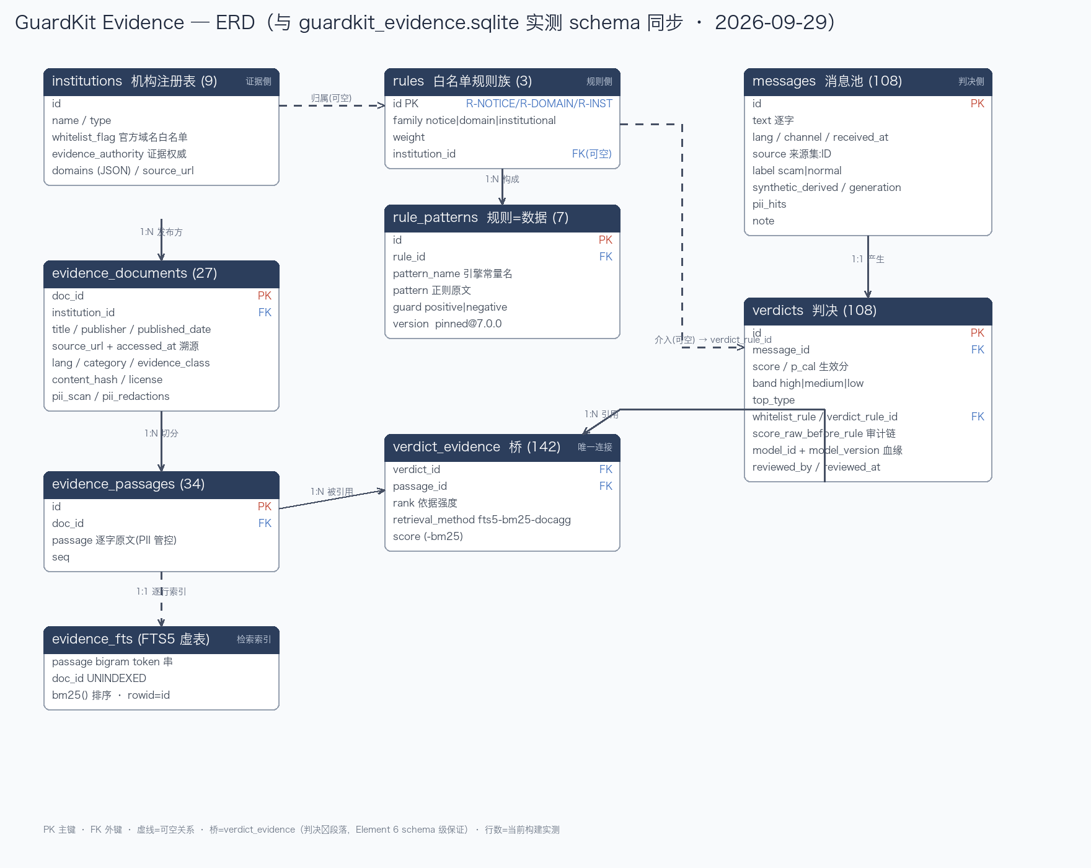
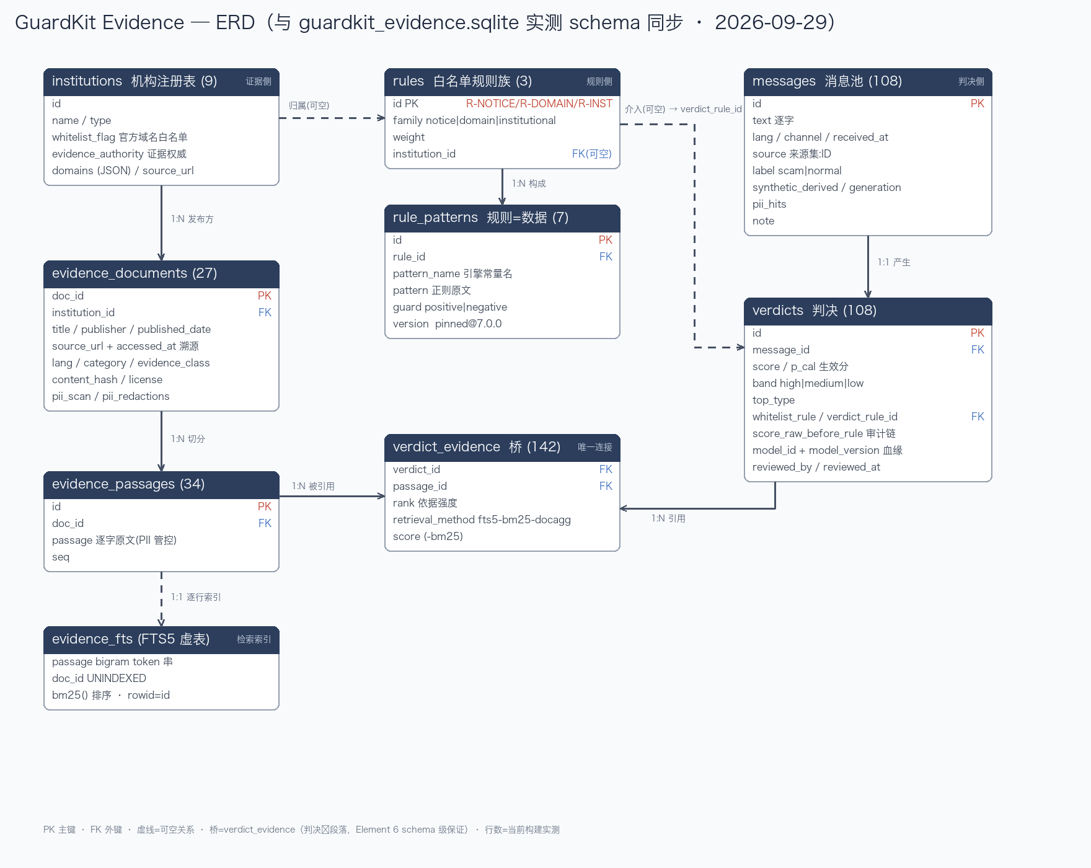
docs: 图纸修正——erd.png 连线贴边不穿框；lineage.png 可验证性上移为顶部横带；expl 素材重裁 + explainer 措辞同步

diff --git a/docs/team/erd-explained.md b/docs/team/erd-explained.md
@@ -105,7 +105,7 @@
 4. **判决**：pinned 引擎（`model_id`/`model_version` 记录血缘）+ 白名单 + 双条件档位。
 5. **输出**：检索写桥表 → 判决卡（分数→规则→原文）→ 高危升级（`reviewed_by`/`reviewed_at` 等人填）。
 
-右侧"可验证性"框是血缘图的灵魂：**文档级**（URL+日期+hash 可比对）、**判决级**（桥表一条 SQL 溯源）、**库级**（重建库与提交库逻辑逐行一致、大小 204,800 B；字节差异仅判决时间戳）——三层验证让血缘不是口头声明。
+顶部"可验证性"横带是血缘图的灵魂（它不是流程的一步，而是每一步的检查标准）：**文档级**（URL+日期+hash 可比对）、**判决级**（桥表一条 SQL 溯源）、**库级**（重建库与提交库逻辑逐行一致、大小 204,800 B；字节差异仅判决时间戳）——三层验证让血缘不是口头声明。
 
 ---
 

diff --git a/README.md b/README.md
@@ -26,7 +26,10 @@ open demo/verdict_cards.html # 浏览器看产品形态（生成产物，重跑 
 
 > 组员 pull 之后**不需要猜仓库变了什么**——按日期倒序列在这里；详细 diff 可用 `git log` 看。
 
-**2026-10-01（最新）**
+**2026-10-02（最新）**
+- 图纸修正：`erd.png` 连线贴边重走（不再穿越框内文字）；`lineage.png` 的「可验证性」框上移为链路顶部横带（明确覆盖全部五跳）；erd-explained.md 的裁剪图随之更新。
+
+**2026-10-01**
 - **`docs/team/erd-explained.md`** 新增：两张设计图（字段版 ERD + 血缘）逐块截图详解，每个关系都讲"为什么是这个关系"——学 ERD 以此为主入口。
 - 删除 `docs/assets/erd-simple.png`（过程版简图，与 lineage.png 定位重复；详解裁剪图 expl-*.png 替代其职能）。
 
